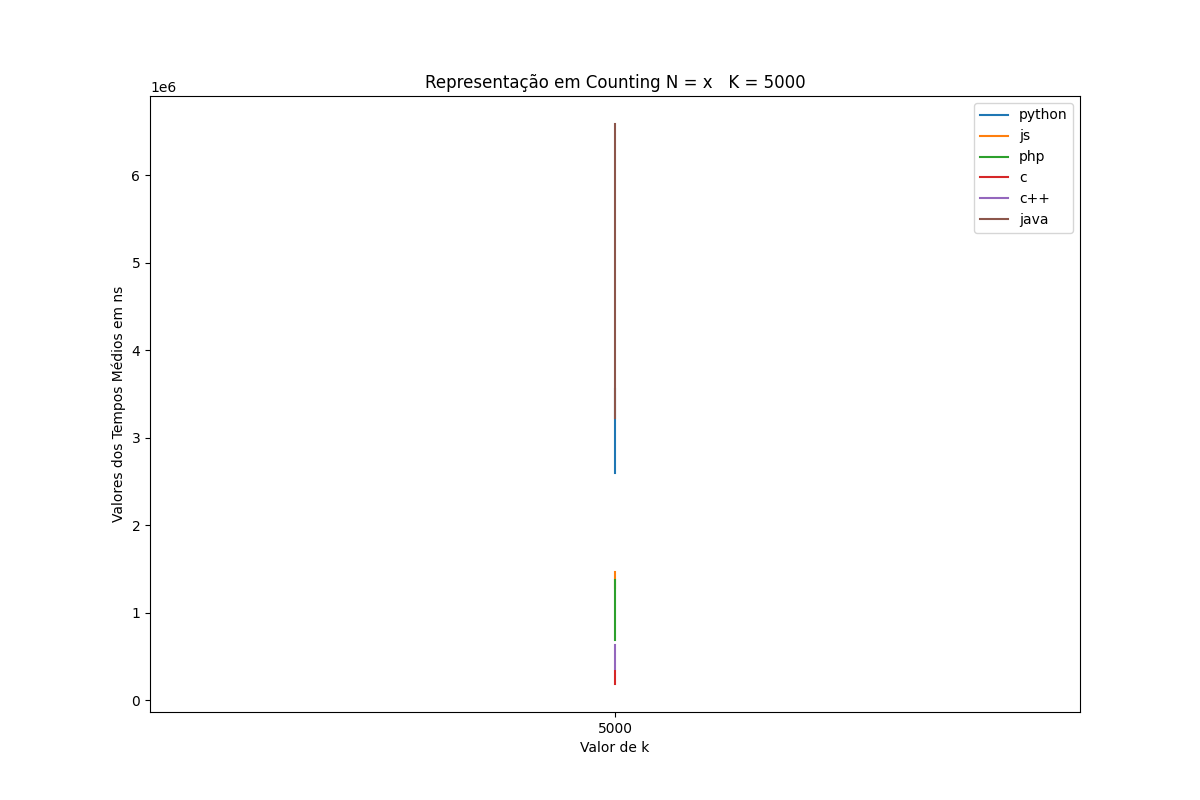
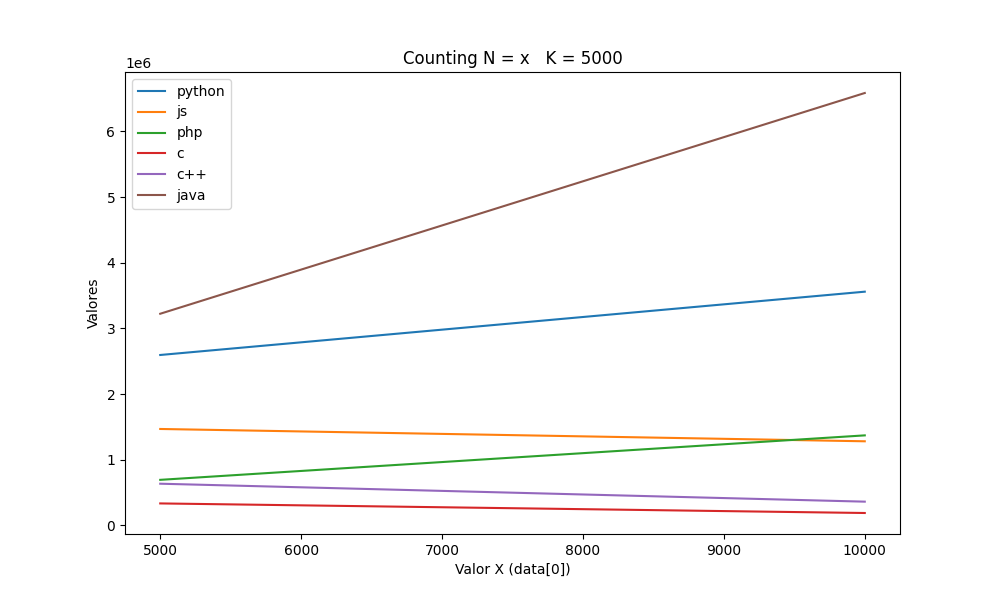
Algoritmo base concluido, so falta deixar no estilo

diff --git a/codigos/feramentas/graph/GraficoComparacao.py b/codigos/feramentas/graph/GraficoComparacao.py
@@ -3,7 +3,42 @@ import matplotlib.pyplot as plt
 import numpy as np
 import os
 
-def gerarGraficos(dados_coun, data, headhead,tible, save_path):
+def gerarGraficosK(dados, data, head, tible, save_path):
+    os.makedirs(save_path, exist_ok=True)
+    
+    plt.figure(figsize=(10, 6))
+    
+    x = [int(d[0]) for d in data]
+    
+    for i, linguagem in enumerate(head):
+        y = dados[i]
+        
+        # Verifica se y é uma lista
+        if not isinstance(y, list):
+            print(f"Aviso: y não é uma lista para {linguagem}. Dados: {y}")
+            continue
+        
+        # Verifica se x e y têm o mesmo comprimento
+        if len(x) != len(y):
+            print(f"Aviso: x e y têm tamanhos diferentes para {linguagem}.")
+            print(f"x: {len(x)} elementos")
+            print(f"y: {len(y)} elementos")
+            continue
+        
+        plt.plot(x, y, label=linguagem)
+    
+    plt.xlabel('Valor X (data[0])')
+    plt.ylabel('Valores')
+    plt.title(tible)
+    plt.legend()
+    
+    # plt.savefig(f'{save_path}/{titulo}.png', format='png')
+    save_file = os.path.join(save_path, f'{tible.lower().replace(" ", "_")}_grafico.png')
+    plt.savefig(save_file, format='png')
+
+
+
+def gerarGraficosN(dados_coun, data, headhead,tible, save_path):
     os.makedirs(save_path, exist_ok=True)
     plt.figure(figsize=(12, 8))
 
@@ -81,8 +116,8 @@ def graficoComparacaoN(data, diretoria, save_path):
     for line in dados_linguagem_hole:
         print(line)
 
-    gerarGraficos(dados_linguagem_coun, data, head,f'Counting N = {data[0][0]} K = x', f'{save_path}/graphComparar')
-    gerarGraficos(dados_linguagem_hole, data, head,f'Pigeonhole N = {data[0][0]} K = x', f'{save_path}/graphComparar')
+    gerarGraficosN(dados_linguagem_coun, data, head,f'Counting N = {data[0][0]} K = x', f'{save_path}/graphComparar')
+    gerarGraficosN(dados_linguagem_hole, data, head,f'Pigeonhole N = {data[0][0]} K = x', f'{save_path}/graphComparar')
 
 
 
@@ -135,5 +170,5 @@ def graficoComparacaoK(data, diretorio, save_path):
         print(line)
     
 
-    gerarGraficos(dados_linguagem_coun, data, head, f'Counting N = x   K = {data[0][1]}', f'{save_path}/graphComparar')
-    gerarGraficos(dados_linguagem_hole, data, head, f'Pigeonhole N = x   k = {data[0][1]}', f'{save_path}/graphComparar')
+    gerarGraficosK(dados_linguagem_coun, data, head, f'Counting N = x   K = {data[0][1]}', f'{save_path}/graphComparar')
+    gerarGraficosK(dados_linguagem_hole, data, head, f'Pigeonhole N = x   k = {data[0][1]}', f'{save_path}/graphComparar')
